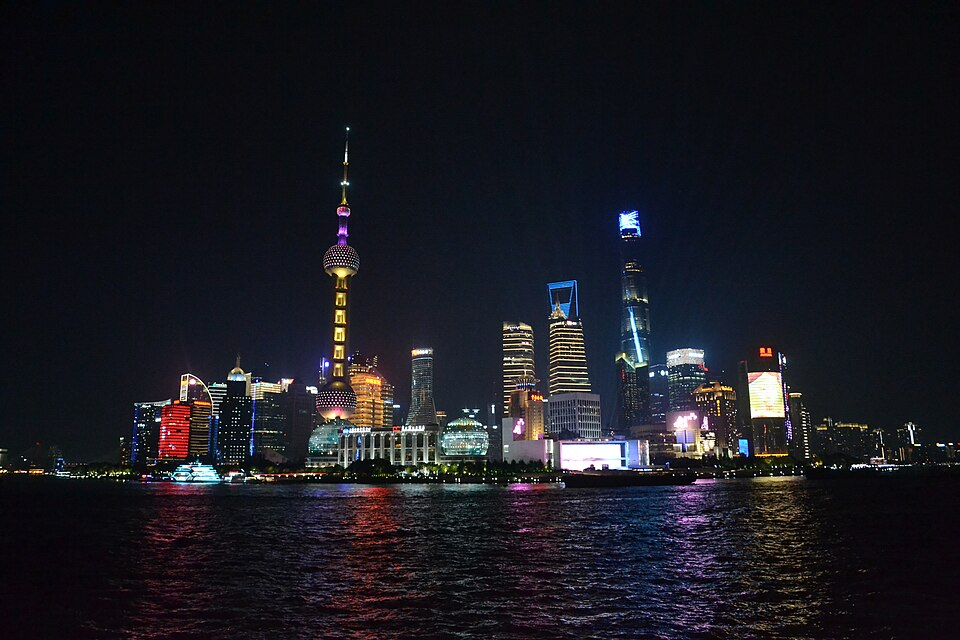
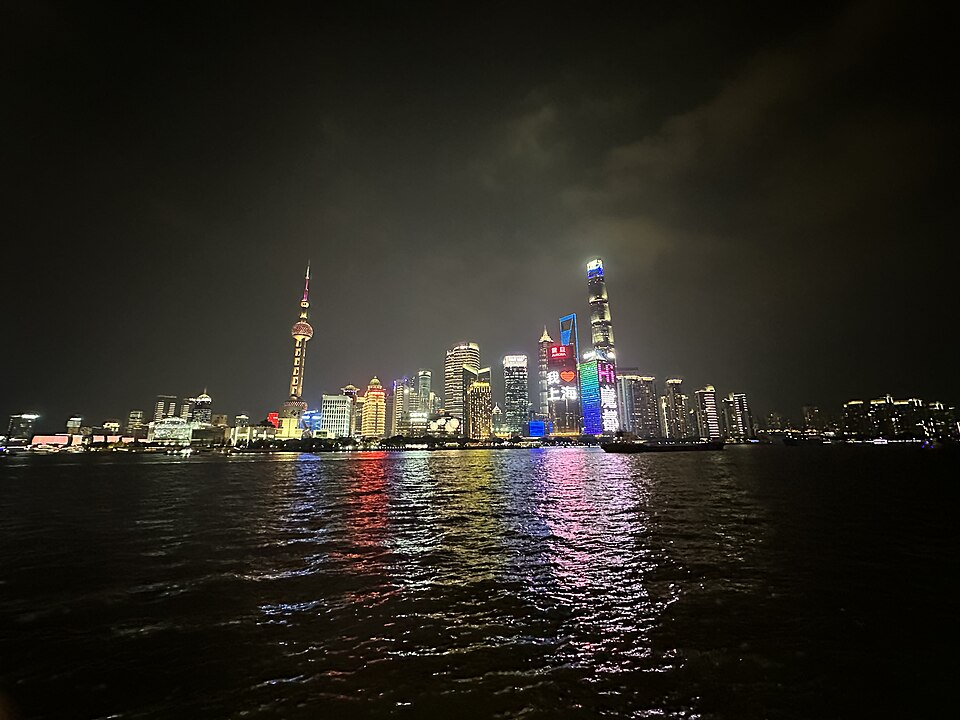
图片检查点3：新增33张专属配图（注册表364条），I1批次7/12图到位

diff --git a/content-images-registry.js b/content-images-registry.js
@@ -305,5 +305,63 @@ window.IMAGE_SOURCES_EXTRA = {
   "symbols-archaeological-recording": { name: "Dolina-Pano-3.jpg · Wikimedia Commons", author: "Mario Modesto Mata", source: "https://commons.wikimedia.org/wiki/File:Dolina-Pano-3.jpg", license: "CC BY-SA 3.0", licenseUrl: "https://creativecommons.org/licenses/by-sa/3.0" },
   "circles-italy-france-2008": { name: "Rome (Italy), Piazza della Rotonda, Hub of a Coach -- 2013 -- 10.jpg · Wikimedia Commons", author: "Dietmar Rabich", source: "https://commons.wikimedia.org/wiki/File:Rome_(Italy),_Piazza_della_Rotonda,_Hub_of_a_Coach_--_2013_--_10.jpg", license: "CC BY-SA 4.0", licenseUrl: "https://creativecommons.org/licenses/by-sa/4.0" },
   "symbols-remote-sensing-future": { name: "Digging Into the History of Stone Town (154309 - tm5 19950609 lrg).jpg · Wikimedia Commons", author: "NASA Earth Observatory images by Wanmei Liang, using Landsat data from the U.S. Geological", source: "https://commons.wikimedia.org/wiki/File:Digging_Into_the_History_of_Stone_Town_(154309_-_tm5_19950609_lrg).jpg", license: "Public domain", licenseUrl: "https://commons.wikimedia.org/wiki/File:Digging_Into_the_History_of_Stone_Town_(154309_-_tm5_19950609_lrg).jpg" },
-  "ancient-liangzhu-jade": { name: "Jade Artifact (10434378914).jpg · Wikimedia Commons", author: "Gary Todd from Xinzheng, China", source: "https://commons.wikimedia.org/wiki/File:Jade_Artifact_(10434378914).jpg", license: "CC0", licenseUrl: "http://creativecommons.org/publicdomain/zero/1.0/deed.en" }
+  "ancient-liangzhu-jade": { name: "Jade Artifact (10434378914).jpg · Wikimedia Commons", author: "Gary Todd from Xinzheng, China", source: "https://commons.wikimedia.org/wiki/File:Jade_Artifact_(10434378914).jpg", license: "CC0", licenseUrl: "http://creativecommons.org/publicdomain/zero/1.0/deed.en" },
+  "beings-1959-boianai-follow": { name: "Aerial view of the USCGC Oliver Henry, and 3 other patrol vessels, moored in Manus, PNG.jpg · Wikimedia Commons", author: "SW3 Victor Villanueva", source: "https://commons.wikimedia.org/wiki/File:Aerial_view_of_the_USCGC_Oliver_Henry,_and_3_other_patrol_vessels,_moored_in_Manus,_PNG.jpg", license: "Public domain", licenseUrl: "https://commons.wikimedia.org/wiki/File:Aerial_view_of_the_USCGC_Oliver_Henry,_and_3_other_patrol_vessels,_moored_in_Manus,_PNG.jpg" },
+  "beings-vallee-control-system": { name: "Jacques Vallée by Christopher Michel 12112024 4.jpg · Wikimedia Commons", author: "Christopher Michel", source: "https://commons.wikimedia.org/wiki/File:Jacques_Vall%C3%A9e_by_Christopher_Michel_12112024_4.jpg", license: "CC BY-SA 4.0", licenseUrl: "https://creativecommons.org/licenses/by-sa/4.0" },
+  "ufo-2019-pacific-flap": { name: "US Navy 110418-N-VM928-041 Master Chief Petty Officer of the Navy (MCPON) Rick D. West is presented with a command ball cap and plaque from Sailors.jpg · Wikimedia Commons", author: "U.S. Navy photo by Mass Communication Specialist 2nd Class Robert Stirrup", source: "https://commons.wikimedia.org/wiki/File:US_Navy_110418-N-VM928-041_Master_Chief_Petty_Officer_of_the_Navy_(MCPON)_Rick_D._West_is_presented_with_a_command_ball_cap_and_plaque_from_Sailors.jpg", license: "Public domain", licenseUrl: "https://commons.wikimedia.org/wiki/File:US_Navy_110418-N-VM928-041_Master_Chief_Petty_Officer_of_the_Navy_(MCPON)_Rick_D._West_is_presented_with_a_command_ball_cap_and_plaque_from_Sailors.jpg" },
+  "resources-openverse-cc": { name: "Ui Central Library, Crystal of Knowledge Library.jpg · Wikimedia Commons", author: "Kaliper1", source: "https://commons.wikimedia.org/wiki/File:Ui_Central_Library,_Crystal_of_Knowledge_Library.jpg", license: "CC BY-SA 4.0", licenseUrl: "https://creativecommons.org/licenses/by-sa/4.0" },
+  "resources-smithsonian-open": { name: "Smithsonian Institution Building (\"The Castle\"), Washington, D.C. in 2012.JPG · Wikimedia Commons", author: "Another Believer", source: "https://commons.wikimedia.org/wiki/File:Smithsonian_Institution_Building_(%22The_Castle%22),_Washington,_D.C._in_2012.JPG", license: "CC BY-SA 3.0", licenseUrl: "https://creativecommons.org/licenses/by-sa/3.0" },
+  "theory-citizen-science": { name: "Bubbles Within Bubbles (Unannotated).jpg · Wikimedia Commons", author: "NASA/JPL-Caltech/University of Wisconsin", source: "https://commons.wikimedia.org/wiki/File:Bubbles_Within_Bubbles_(Unannotated).jpg", license: "Public domain", licenseUrl: "https://commons.wikimedia.org/wiki/File:Bubbles_Within_Bubbles_(Unannotated).jpg" },
+  "symbols-proto-cuneiform-uruk": { name: "Proto cuneiform tablet OIM A02516.jpg · Wikimedia Commons", author: "Original: Daderot\nDerivative work : Zunkir", source: "https://commons.wikimedia.org/wiki/File:Proto_cuneiform_tablet_OIM_A02516.jpg", license: "CC BY-SA 4.0", licenseUrl: "https://creativecommons.org/licenses/by-sa/4.0" },
+  "symbols-crete-hieroglyphs": { name: "Disque de Phaistos A.jpg · Wikimedia Commons", author: "No machine-readable author provided. Francois C assumed (based on copyright claims).", source: "https://commons.wikimedia.org/wiki/File:Disque_de_Phaistos_A.jpg", license: "Public domain", licenseUrl: "https://commons.wikimedia.org/wiki/File:Disque_de_Phaistos_A.jpg" },
+  "symbols-greek-key-pattern": { name: "Relief pithos from Andros - meander - Άνδρος AM M 162 - 02.jpg · Wikimedia Commons", author: "ArchaiOptix", source: "https://commons.wikimedia.org/wiki/File:Relief_pithos_from_Andros_-_meander_-_%CE%86%CE%BD%CE%B4%CF%81%CE%BF%CF%82_AM_M_162_-_02.jpg", license: "CC BY-SA 4.0", licenseUrl: "https://creativecommons.org/licenses/by-sa/4.0" },
+  "ancient-skara-brae": { name: "Skara brae 2026 1.jpg · Wikimedia Commons", author: "Ekrem Canli", source: "https://commons.wikimedia.org/wiki/File:Skara_brae_2026_1.jpg", license: "CC BY-SA 4.0", licenseUrl: "https://creativecommons.org/licenses/by-sa/4.0" },
+  "theory-post-biological": { name: "Artificial Intelligence (AI) and Robotics exhibition at the Heinz Nixdorf MuseumsForum.jpg · Wikimedia Commons", author: "Sergei Magel/HNF", source: "https://commons.wikimedia.org/wiki/File:Artificial_Intelligence_(AI)_and_Robotics_exhibition_at_the_Heinz_Nixdorf_MuseumsForum.jpg", license: "CC BY-SA 4.0", licenseUrl: "https://creativecommons.org/licenses/by-sa/4.0" },
+  "resources-jstor-independent": { name: "Charsadda Public Library.jpg · Wikimedia Commons", author: "Atif Jan", source: "https://commons.wikimedia.org/wiki/File:Charsadda_Public_Library.jpg", license: "CC BY-SA 4.0", licenseUrl: "https://creativecommons.org/licenses/by-sa/4.0" },
+  "circles-thermal-imaging": { name: "An UAV displayed by Thermal Systems at Amaravati Drone summit (05).jpg · Wikimedia Commons", author: "iMahesh", source: "https://commons.wikimedia.org/wiki/File:An_UAV_displayed_by_Thermal_Systems_at_Amaravati_Drone_summit_(05).jpg", license: "CC BY-SA 4.0", licenseUrl: "https://creativecommons.org/licenses/by-sa/4.0" },
+  "ufo-1974-berkshire-torrington": { name: "S144 Suzuki Samurai 4x4 - Canada Police - RCMP Royal Canadian Mounted Police(!!) (2596933447).jpg · Wikimedia Commons", author: "Dave Conner from Inverness, Scotland", source: "https://commons.wikimedia.org/wiki/File:S144_Suzuki_Samurai_4x4_-_Canada_Police_-_RCMP_Royal_Canadian_Mounted_Police(!!)_(2596933447).jpg", license: "CC BY 2.0", licenseUrl: "https://creativecommons.org/licenses/by/2.0" },
+  "ancient-tell-es-sultan": { name: "Ancient Jericho excavation. The city wall showing Mt. Temptation LOC matpc.04114.jpg · Wikimedia Commons", author: "Matson Collection", source: "https://commons.wikimedia.org/wiki/File:Ancient_Jericho_excavation._The_city_wall_showing_Mt._Temptation_LOC_matpc.04114.jpg", license: "Public domain", licenseUrl: "https://commons.wikimedia.org/wiki/File:Ancient_Jericho_excavation._The_city_wall_showing_Mt._Temptation_LOC_matpc.04114.jpg" },
+  "resources-europeana-archaeology": { name: "Gradeshnitsa Tablet.jpg · Wikimedia Commons", author: "Unknown authorUnknown author", source: "https://commons.wikimedia.org/wiki/File:Gradeshnitsa_Tablet.jpg", license: "CC BY 3.0", licenseUrl: "https://creativecommons.org/licenses/by/3.0" },
+  "circles-media-ethics": { name: "Michele McLellan - Flickr - Knight Foundation.jpg · Wikimedia Commons", author: "Knight Foundation", source: "https://commons.wikimedia.org/wiki/File:Michele_McLellan_-_Flickr_-_Knight_Foundation.jpg", license: "CC BY-SA 2.0", licenseUrl: "https://creativecommons.org/licenses/by-sa/2.0" },
+  "theory-fermi-bubbles-deep": { name: "Fermi Bubble Graphic (5162405776).jpg · Wikimedia Commons", author: "NASA Goddard Space Flight Center from Greenbelt, MD, USA", source: "https://commons.wikimedia.org/wiki/File:Fermi_Bubble_Graphic_(5162405776).jpg", license: "Public domain", licenseUrl: "https://commons.wikimedia.org/wiki/File:Fermi_Bubble_Graphic_(5162405776).jpg" },
+  "ufo-2019-pacific-report-culture": { name: "U.S. Navy ship refuels at sea in the Pacific Ocean. (38453701725).jpg · Wikimedia Commons", author: "Official U.S. Navy Page from United States of America\n\nMC3 Levingston Lewis/U.S. Navy", source: "https://commons.wikimedia.org/wiki/File:U.S._Navy_ship_refuels_at_sea_in_the_Pacific_Ocean._(38453701725).jpg", license: "Public domain", licenseUrl: "https://commons.wikimedia.org/wiki/File:U.S._Navy_ship_refuels_at_sea_in_the_Pacific_Ocean._(38453701725).jpg" },
+  "circles-crop-yield": { name: "Woman harvesting wheat, Raisen district, Madhya Pradesh, India ggia version.jpg · Wikimedia Commons", author: "Yann Forget", source: "https://commons.wikimedia.org/wiki/File:Woman_harvesting_wheat,_Raisen_district,_Madhya_Pradesh,_India_ggia_version.jpg", license: "CC BY-SA 3.0", licenseUrl: "https://creativecommons.org/licenses/by-sa/3.0" },
+  "resources-europeana-cultural": { name: "Europeana 2019 - Connect Communities (49172087288).jpg · Wikimedia Commons", author: "Sebastiaan ter Burg from Utrecht, The Netherlands", source: "https://commons.wikimedia.org/wiki/File:Europeana_2019_-_Connect_Communities_(49172087288).jpg", license: "CC BY 2.0", licenseUrl: "https://creativecommons.org/licenses/by/2.0" },
+  "symbols-linear-b-decipherment": { name: "Linear B tablet, AM of Mycenae, 201730.jpg · Wikimedia Commons", author: "Zde", source: "https://commons.wikimedia.org/wiki/File:Linear_B_tablet,_AM_of_Mycenae,_201730.jpg", license: "CC BY-SA 4.0", licenseUrl: "https://creativecommons.org/licenses/by-sa/4.0" },
+  "ufo-1968-papua-gill": { name: "Australia and the Great Barrier Reef (MODIS 2018-04-30).jpg · Wikimedia Commons", author: "Jeff Schmaltz, MODIS Land Rapid Response Team, NASA GSFC", source: "https://commons.wikimedia.org/wiki/File:Australia_and_the_Great_Barrier_Reef_(MODIS_2018-04-30).jpg", license: "Public domain", licenseUrl: "https://commons.wikimedia.org/wiki/File:Australia_and_the_Great_Barrier_Reef_(MODIS_2018-04-30).jpg" },
+  "circles-valensole-1965": { name: "Lavender fields of Valensole, 2019.jpg · Wikimedia Commons", author: "https://www.reddit.com/user/Grafixart-Photo", source: "https://commons.wikimedia.org/wiki/File:Lavender_fields_of_Valensole,_2019.jpg", license: "CC BY-SA 4.0", licenseUrl: "https://creativecommons.org/licenses/by-sa/4.0" },
+  "circles-media-coverage": { name: "Western Daily Press printing press 1908.jpg · Wikimedia Commons", author: "Samuel Loxton (artist)", source: "https://commons.wikimedia.org/wiki/File:Western_Daily_Press_printing_press_1908.jpg", license: "Public domain", licenseUrl: "https://commons.wikimedia.org/wiki/File:Western_Daily_Press_printing_press_1908.jpg" },
+  "lat30-kailash": { name: "Mount Kailash, Tibet.jpg · Wikimedia Commons", author: "Amitbalani", source: "https://commons.wikimedia.org/wiki/File:Mount_Kailash,_Tibet.jpg", license: "CC0", licenseUrl: "http://creativecommons.org/publicdomain/zero/1.0/deed.en" },
+  "resources-smithsonian-open-access": { name: "Smithsonian Building NR.jpg · Wikimedia Commons", author: "User:Noclip", source: "https://commons.wikimedia.org/wiki/File:Smithsonian_Building_NR.jpg", license: "Public domain", licenseUrl: "https://commons.wikimedia.org/wiki/File:Smithsonian_Building_NR.jpg" },
+  "circles-1991-barbury-castle": { name: "Barbury Castle - geograph.org.uk - 4902497.jpg · Wikimedia Commons", author: "Michael Graham", source: "https://commons.wikimedia.org/wiki/File:Barbury_Castle_-_geograph.org.uk_-_4902497.jpg", license: "CC BY-SA 2.0", licenseUrl: "https://creativecommons.org/licenses/by-sa/2.0" },
+  "theory-technosignature-status": { name: "Submillimeter Array Night.jpg · Wikimedia Commons", author: "TripOfALifestyle.com", source: "https://commons.wikimedia.org/wiki/File:Submillimeter_Array_Night.jpg", license: "CC BY 4.0", licenseUrl: "https://creativecommons.org/licenses/by/4.0" },
+  "theory-seti-progress-2024": { name: "Allen Telescope Array - brewbooks.jpg · Wikimedia Commons", author: "brewbooks from near Seattle, USA", source: "https://commons.wikimedia.org/wiki/File:Allen_Telescope_Array_-_brewbooks.jpg", license: "CC BY-SA 4.0", licenseUrl: "https://creativecommons.org/licenses/by-sa/4.0" },
+  "explore-psyche-mission": { name: "Psyche spacecraft caméra PIA24894.jpg · Wikimedia Commons", author: "NASA/JPL-Caltech/ASU/MSSS", source: "https://commons.wikimedia.org/wiki/File:Psyche_spacecraft_cam%C3%A9ra_PIA24894.jpg", license: "Public domain", licenseUrl: "https://commons.wikimedia.org/wiki/File:Psyche_spacecraft_cam%C3%A9ra_PIA24894.jpg" },
+  "resources-arxiv-preprint": { name: "Kroch Library sign, Cornell University.jpg · Wikimedia Commons", author: "Kenneth C. Zirkel", source: "https://commons.wikimedia.org/wiki/File:Kroch_Library_sign,_Cornell_University.jpg", license: "CC BY-SA 4.0", licenseUrl: "https://creativecommons.org/licenses/by-sa/4.0" },
+  "lat30-iodp-coring": { name: "RV Shearwater sits in a dye patch during Safe Seas 2006 drill.jpg · Wikimedia Commons", author: "NOAA", source: "https://commons.wikimedia.org/wiki/File:RV_Shearwater_sits_in_a_dye_patch_during_Safe_Seas_2006_drill.jpg", license: "Public domain", licenseUrl: "https://commons.wikimedia.org/wiki/File:RV_Shearwater_sits_in_a_dye_patch_during_Safe_Seas_2006_drill.jpg" },
+  "myst-loch-ness-sonar": { name: "Loch Ness seen from Urquhart Castle - geograph.org.uk - 5015918.jpg · Wikimedia Commons", author: "Schlosser67", source: "https://commons.wikimedia.org/wiki/File:Loch_Ness_seen_from_Urquhart_Castle_-_geograph.org.uk_-_5015918.jpg", license: "CC BY-SA 2.0", licenseUrl: "https://creativecommons.org/licenses/by-sa/2.0" },
+  "myst-yonaguni-geology": { name: "Big Turtle Rock 大亀石 near the Yonaguni Monument.jpg · Wikimedia Commons", author: "Melkov", source: "https://commons.wikimedia.org/wiki/File:Big_Turtle_Rock_%E5%A4%A7%E4%BA%80%E7%9F%B3_near_the_Yonaguni_Monument.jpg", license: "CC0", licenseUrl: "http://creativecommons.org/publicdomain/zero/1.0/deed.en" },
+  "beings-mothman-point-pleasant": { name: "Point Pleasant Kanawha River Rail Bridge 2022.jpg · Wikimedia Commons", author: "Antony-22", source: "https://commons.wikimedia.org/wiki/File:Point_Pleasant_Kanawha_River_Rail_Bridge_2022.jpg", license: "CC BY-SA 4.0", licenseUrl: "https://creativecommons.org/licenses/by-sa/4.0" },
+  "circles-stonehenge-1996-julia": { name: "Summer Solstice 2005 Sunrise over Stonehenge 01.jpg · Wikimedia Commons", author: "Wikimedia Commons 贡献者", source: "https://commons.wikimedia.org/wiki/File:Summer_Solstice_2005_Sunrise_over_Stonehenge_01.jpg", license: "CC BY-SA 2.0", licenseUrl: "https://creativecommons.org/licenses/by-sa/2.0" },
+  "lat30-machu-picchu-geology": { name: "View to Machu Picchu.jpg · Wikimedia Commons", author: "Gedankenstuecke", source: "https://commons.wikimedia.org/wiki/File:View_to_Machu_Picchu.jpg", license: "CC BY-SA 4.0", licenseUrl: "https://creativecommons.org/licenses/by-sa/4.0" },
+  "resources-europeana-newspapers": { name: "Handset Press with Copy of San Diego Union Newspaper - San Diego Union Printing Office - Old Town San Diego State Historic Park - San Diego, CA - USA (6930660491).jpg · Wikimedia Commons", author: "Adam Jones from Kelowna, BC, Canada", source: "https://commons.wikimedia.org/wiki/File:Handset_Press_with_Copy_of_San_Diego_Union_Newspaper_-_San_Diego_Union_Printing_Office_-_Old_Town_San_Diego_State_Historic_Park_-_San_Diego,_CA_-_USA_(6930660491).jpg", license: "CC BY-SA 2.0", licenseUrl: "https://creativecommons.org/licenses/by-sa/2.0" },
+  "ancient-nan-madol-ruins": { name: "U S Coast Guard experience culture in Pohnpei, part of Operation Rematau (7545904).jpg · Wikimedia Commons", author: "U.S. Coast Guard photo by Chief Warrant Officer Sara Muir", source: "https://commons.wikimedia.org/wiki/File:U_S_Coast_Guard_experience_culture_in_Pohnpei,_part_of_Operation_Rematau_(7545904).jpg", license: "Public domain", licenseUrl: "https://commons.wikimedia.org/wiki/File:U_S_Coast_Guard_experience_culture_in_Pohnpei,_part_of_Operation_Rematau_(7545904).jpg" },
+  "ufo-1951-lubbock-lights": { name: "Lubbock, Texas skyline.jpg · Wikimedia Commons", author: "Quintin Soloviev", source: "https://commons.wikimedia.org/wiki/File:Lubbock,_Texas_skyline.jpg", license: "CC BY 4.0", licenseUrl: "https://creativecommons.org/licenses/by/4.0" },
+  "ufo-1980-cash-landrum": { name: "Royal Air Force Chinook helicopter firing flares over Afghanistan MOD 45158742.jpg · Wikimedia Commons", author: "Cpl Lee Goddard", source: "https://commons.wikimedia.org/wiki/File:Royal_Air_Force_Chinook_helicopter_firing_flares_over_Afghanistan_MOD_45158742.jpg", license: "OGL 2", licenseUrl: "http://www.nationalarchives.gov.uk/doc/open-government-licence/version/2" },
+  "ufo-2008-stephenville": { name: "Downtown Stephenville 2024.jpg · Wikimedia Commons", author: "Renegomezphotography", source: "https://commons.wikimedia.org/wiki/File:Downtown_Stephenville_2024.jpg", license: "CC BY-SA 4.0", licenseUrl: "https://creativecommons.org/licenses/by-sa/4.0" },
+  "book-kfk-qa": { name: "Skyline of Shanghai at night, Aug 10 2023.jpg · Wikimedia Commons", author: "A Chinese ID", source: "https://commons.wikimedia.org/wiki/File:Skyline_of_Shanghai_at_night,_Aug_10_2023.jpg", license: "CC BY-SA 4.0", licenseUrl: "https://creativecommons.org/licenses/by-sa/4.0" },
+  "ufo-1947-kenneth-arnold": { name: "Kenneth Arnold.jpg · Wikimedia Commons", author: "Associated Press", source: "https://commons.wikimedia.org/wiki/File:Kenneth_Arnold.jpg", license: "Public domain", licenseUrl: "https://commons.wikimedia.org/wiki/File:Kenneth_Arnold.jpg" },
+  "book-conversations-god": { name: "Barbara Marx Hubbard, December 2011.jpg · Wikimedia Commons", author: "Norman Kremer", source: "https://commons.wikimedia.org/wiki/File:Barbara_Marx_Hubbard,_December_2011.jpg", license: "CC BY-SA 1.0", licenseUrl: "https://creativecommons.org/licenses/by-sa/1.0" },
+  "book-dk-religion": { name: "Religious symbol collage.jpg · Wikimedia Commons", author: "Citation Caesar Images", source: "https://commons.wikimedia.org/wiki/File:Religious_symbol_collage.jpg", license: "CC0", licenseUrl: "http://creativecommons.org/publicdomain/zero/1.0/deed.en" },
+  "book-iraq-history": { name: "Processional Way, Babylon - Google Art Project.jpg · Wikimedia Commons", author: "unknown artist Details on Google Art Project", source: "https://commons.wikimedia.org/wiki/File:Processional_Way,_Babylon_-_Google_Art_Project.jpg", license: "Public domain", licenseUrl: "https://commons.wikimedia.org/wiki/File:Processional_Way,_Babylon_-_Google_Art_Project.jpg" },
+  "resources-cambridge-digital": { name: "Cmglee Cambridge Wren Library University Library.jpg · Wikimedia Commons", author: "Cmglee", source: "https://commons.wikimedia.org/wiki/File:Cmglee_Cambridge_Wren_Library_University_Library.jpg", license: "CC BY-SA 3.0", licenseUrl: "https://creativecommons.org/licenses/by-sa/3.0" },
+  "beings-occult-roots": { name: "Helena-Blavatsky-drawing.jpg · Wikimedia Commons", author: "Unknown authorUnknown author", source: "https://commons.wikimedia.org/wiki/File:Helena-Blavatsky-drawing.jpg", license: "Public domain", licenseUrl: "https://commons.wikimedia.org/wiki/File:Helena-Blavatsky-drawing.jpg" },
+  "circles-statistical-review": { name: "Bar chart of the top 20 domains cited by ChatGPT (2025 data from Recover Reputation).jpg · Wikimedia Commons", author: "Recoverreputation", source: "https://commons.wikimedia.org/wiki/File:Bar_chart_of_the_top_20_domains_cited_by_ChatGPT_(2025_data_from_Recover_Reputation).jpg", license: "CC BY 4.0", licenseUrl: "https://creativecommons.org/licenses/by/4.0" },
+  "symbols-computational-indus": { name: "Unicorn. Mold of Seal, Indus valley civilization.jpg · Wikimedia Commons", author: "Ismoon (talk) 17:48, 21 February 2012 (UTC)", source: "https://commons.wikimedia.org/wiki/File:Unicorn._Mold_of_Seal,_Indus_valley_civilization.jpg", license: "CC0", licenseUrl: "http://creativecommons.org/publicdomain/zero/1.0/deed.en" },
+  "theory-jwst-early-galaxies": { name: "Webb's First Deep Field.jpg · Wikimedia Commons", author: "NASA, ESA, CSA, and STScI", source: "https://commons.wikimedia.org/wiki/File:Webb%27s_First_Deep_Field.jpg", license: "Public domain", licenseUrl: "https://commons.wikimedia.org/wiki/File:Webb%27s_First_Deep_Field.jpg" },
+  "beings-british-abductions": { name: "The Avenue, Stonehenge.JPG · Wikimedia Commons", author: "Ashley Columbus", source: "https://commons.wikimedia.org/wiki/File:The_Avenue,_Stonehenge.JPG", license: "CC BY-SA 3.0", licenseUrl: "https://creativecommons.org/licenses/by-sa/3.0" },
+  "theory-fermi-bubbles": { name: "Fermi bubble art pl.jpg · Wikimedia Commons", author: "http://www.nasa.gov/, Translated: Mk321", source: "https://commons.wikimedia.org/wiki/File:Fermi_bubble_art_pl.jpg", license: "Public domain", licenseUrl: "https://commons.wikimedia.org/wiki/File:Fermi_bubble_art_pl.jpg" },
+  "resources-wikidata-cultural": { name: "Wikidata Days Pangasinan 7.jpg · Wikimedia Commons", author: "Lady01v", source: "https://commons.wikimedia.org/wiki/File:Wikidata_Days_Pangasinan_7.jpg", license: "CC BY-SA 4.0", licenseUrl: "https://creativecommons.org/licenses/by-sa/4.0" },
+  "beings-urban-legend-academic": { name: "SanPedroDeAtacama-ValdiviaHouse.jpg · Wikimedia Commons", author: "No machine-readable author provided. Heretiq assumed (based on copyright claims).", source: "https://commons.wikimedia.org/wiki/File:SanPedroDeAtacama-ValdiviaHouse.jpg", license: "CC BY-SA 2.5", licenseUrl: "https://creativecommons.org/licenses/by-sa/2.5" },
+  "lat30-tunguska-expedition": { name: "Vasyugan.jpg · Wikimedia Commons", author: "Vadim tLS Andrianov / Вадим tLS Андрианов", source: "https://commons.wikimedia.org/wiki/File:Vasyugan.jpg", license: "CC BY-SA 3.0", licenseUrl: "http://creativecommons.org/licenses/by-sa/3.0/" }
 };
